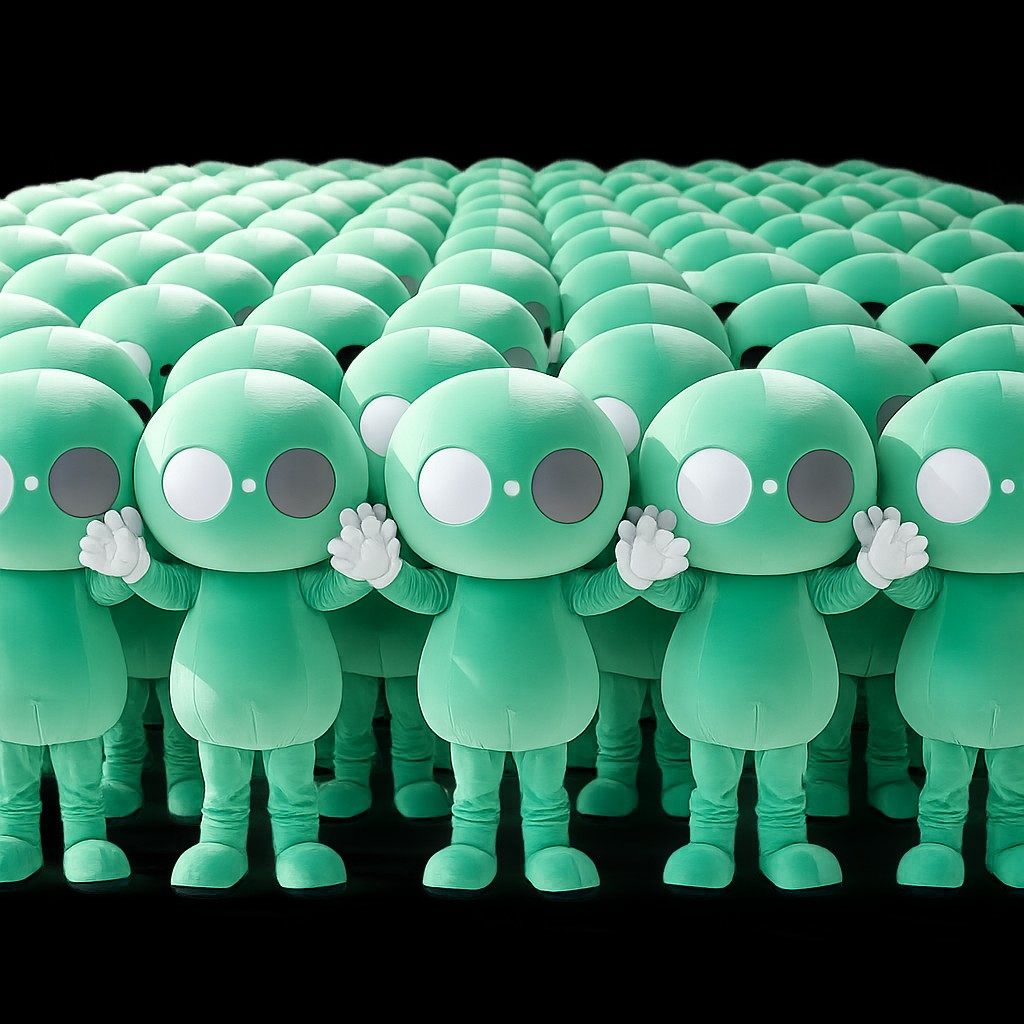
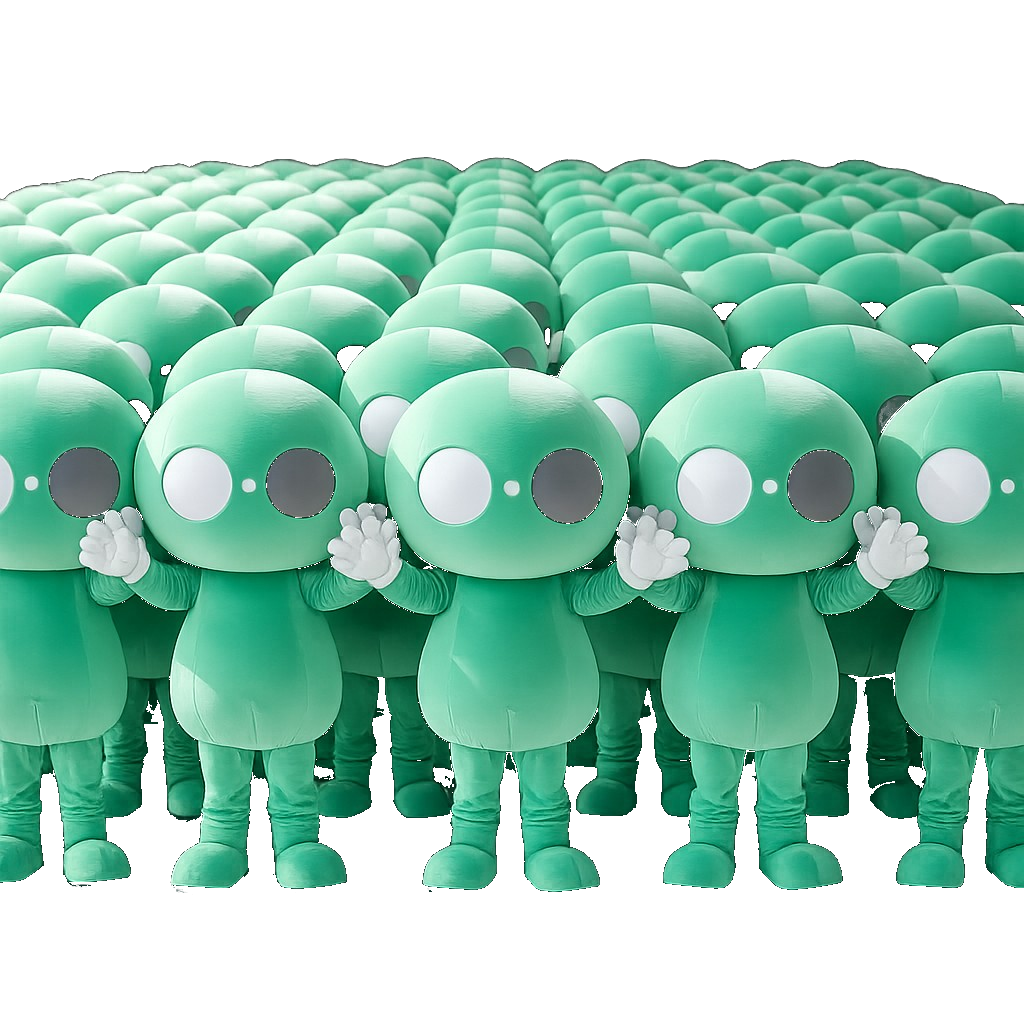
fix(onboarding): PNGの黒背景を透過化してアプリ背景と一体化
フラッドフィルで背景除去、再生成用スクリプトを追加。

diff --git a/expo/app/onboarding.tsx b/expo/app/onboarding.tsx
@@ -173,10 +173,7 @@ export default function OnboardingScreen() {
                 style={styles.slideImage}
                 contentFit="contain"
                 transition={200}
-              />
-              <LinearGradient
-                colors={['transparent', colors.background]}
-                style={styles.imageFade}
+                backgroundColor="transparent"
               />
             </View>
 
@@ -324,13 +321,6 @@ function createStyles(colors: ThemeColors, topInset: number) {
     slideImage: {
       width: '100%',
       height: '100%',
-    },
-    imageFade: {
-      position: 'absolute',
-      left: 0,
-      right: 0,
-      bottom: 0,
-      height: 72,
     },
     copyCard: {
       flex: 1,

diff --git a/expo/scripts/process-onboarding-images.py b/expo/scripts/process-onboarding-images.py
@@ -1,0 +1,60 @@
+#!/usr/bin/env python3
+"""オンボーディング PNG の黒背景を透過にする（元画像パスを引数で指定）"""
+from __future__ import annotations
+
+import sys
+from collections import deque
+from pathlib import Path
+
+from PIL import Image
+
+THRESH = 48
+OUT_DIR = Path(__file__).resolve().parent.parent / 'assets' / 'images' / 'onboarding'
+
+
+def flood_transparent(src: Path, dst: Path) -> None:
+    img = Image.open(src).convert('RGBA')
+    w, h = img.size
+    pixels = img.load()
+    visited = [[False] * w for _ in range(h)]
+
+    def is_bg(r: int, g: int, b: int) -> bool:
+        return r <= THRESH and g <= THRESH and b <= THRESH
+
+    q: deque[tuple[int, int]] = deque()
+    for x in range(w):
+        q.append((x, 0))
+        q.append((x, h - 1))
+    for y in range(h):
+        q.append((0, y))
+        q.append((w - 1, y))
+
+    while q:
+        x, y = q.popleft()
+        if x < 0 or x >= w or y < 0 or y >= h or visited[y][x]:
+            continue
+        r, g, b, _ = pixels[x, y]
+        if not is_bg(r, g, b):
+            continue
+        visited[y][x] = True
+        pixels[x, y] = (r, g, b, 0)
+        q.extend([(x + 1, y), (x - 1, y), (x, y + 1), (x, y - 1)])
+
+    dst.parent.mkdir(parents=True, exist_ok=True)
+    img.save(dst, 'PNG')
+    print(f'OK {dst}')
+
+
+def main() -> None:
+    if len(sys.argv) < 2:
+        print('Usage: process-onboarding-images.py <src1> [src2 ...]')
+        print('  Output names: slide-welcome, slide-community, slide-match, slide-connect (in order)')
+        sys.exit(1)
+    names = ['slide-welcome.png', 'slide-community.png', 'slide-match.png', 'slide-connect.png']
+    for i, src in enumerate(sys.argv[1:]):
+        out_name = names[i] if i < len(names) else f'slide-{i}.png'
+        flood_transparent(Path(src), OUT_DIR / out_name)
+
+
+if __name__ == '__main__':
+    main()
